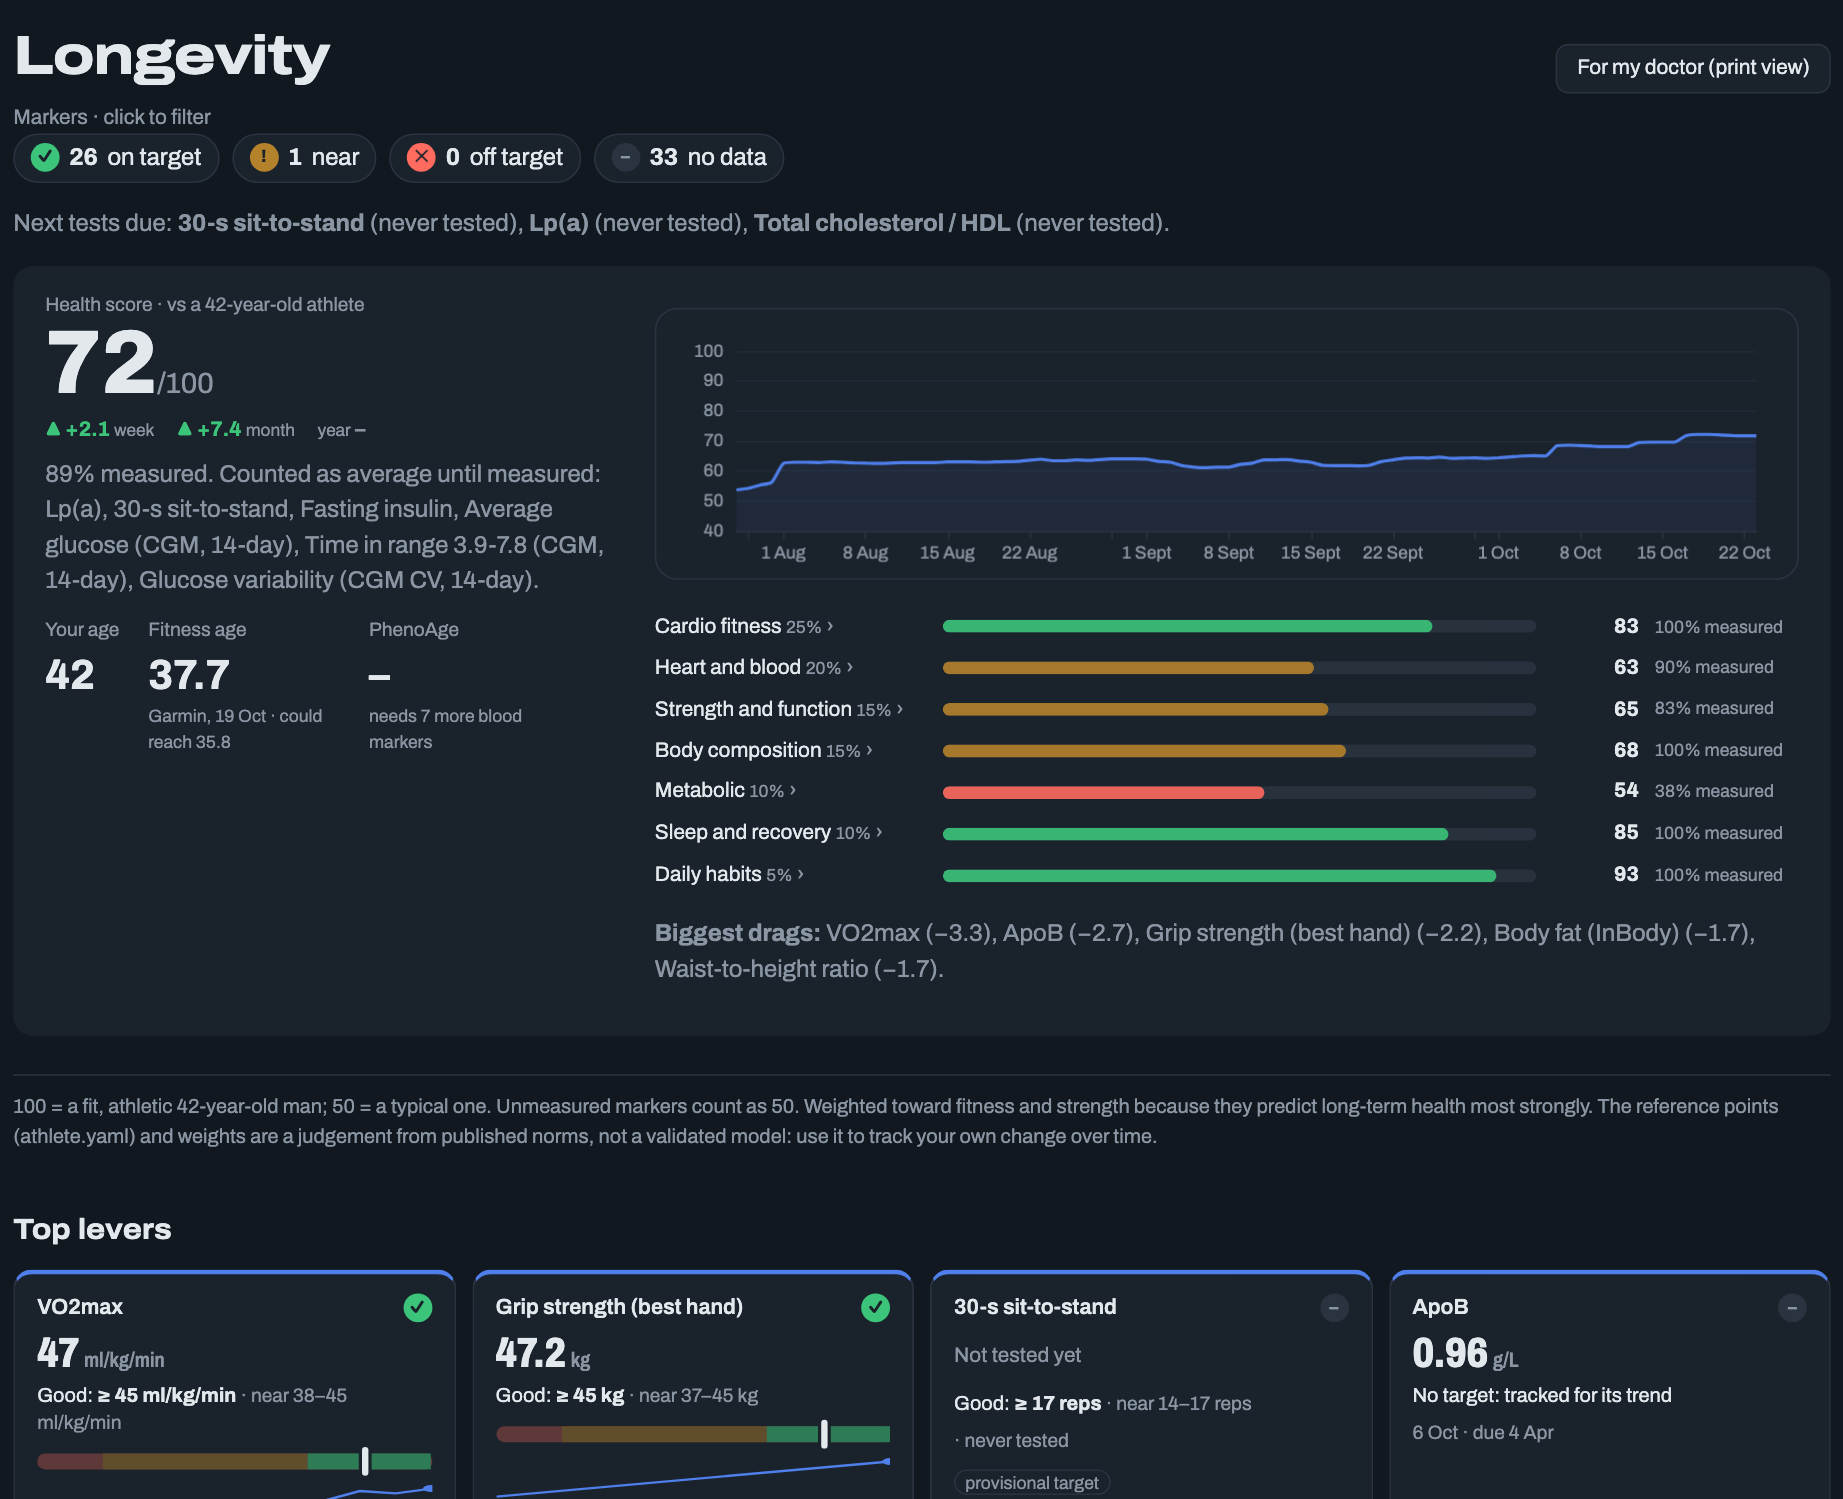
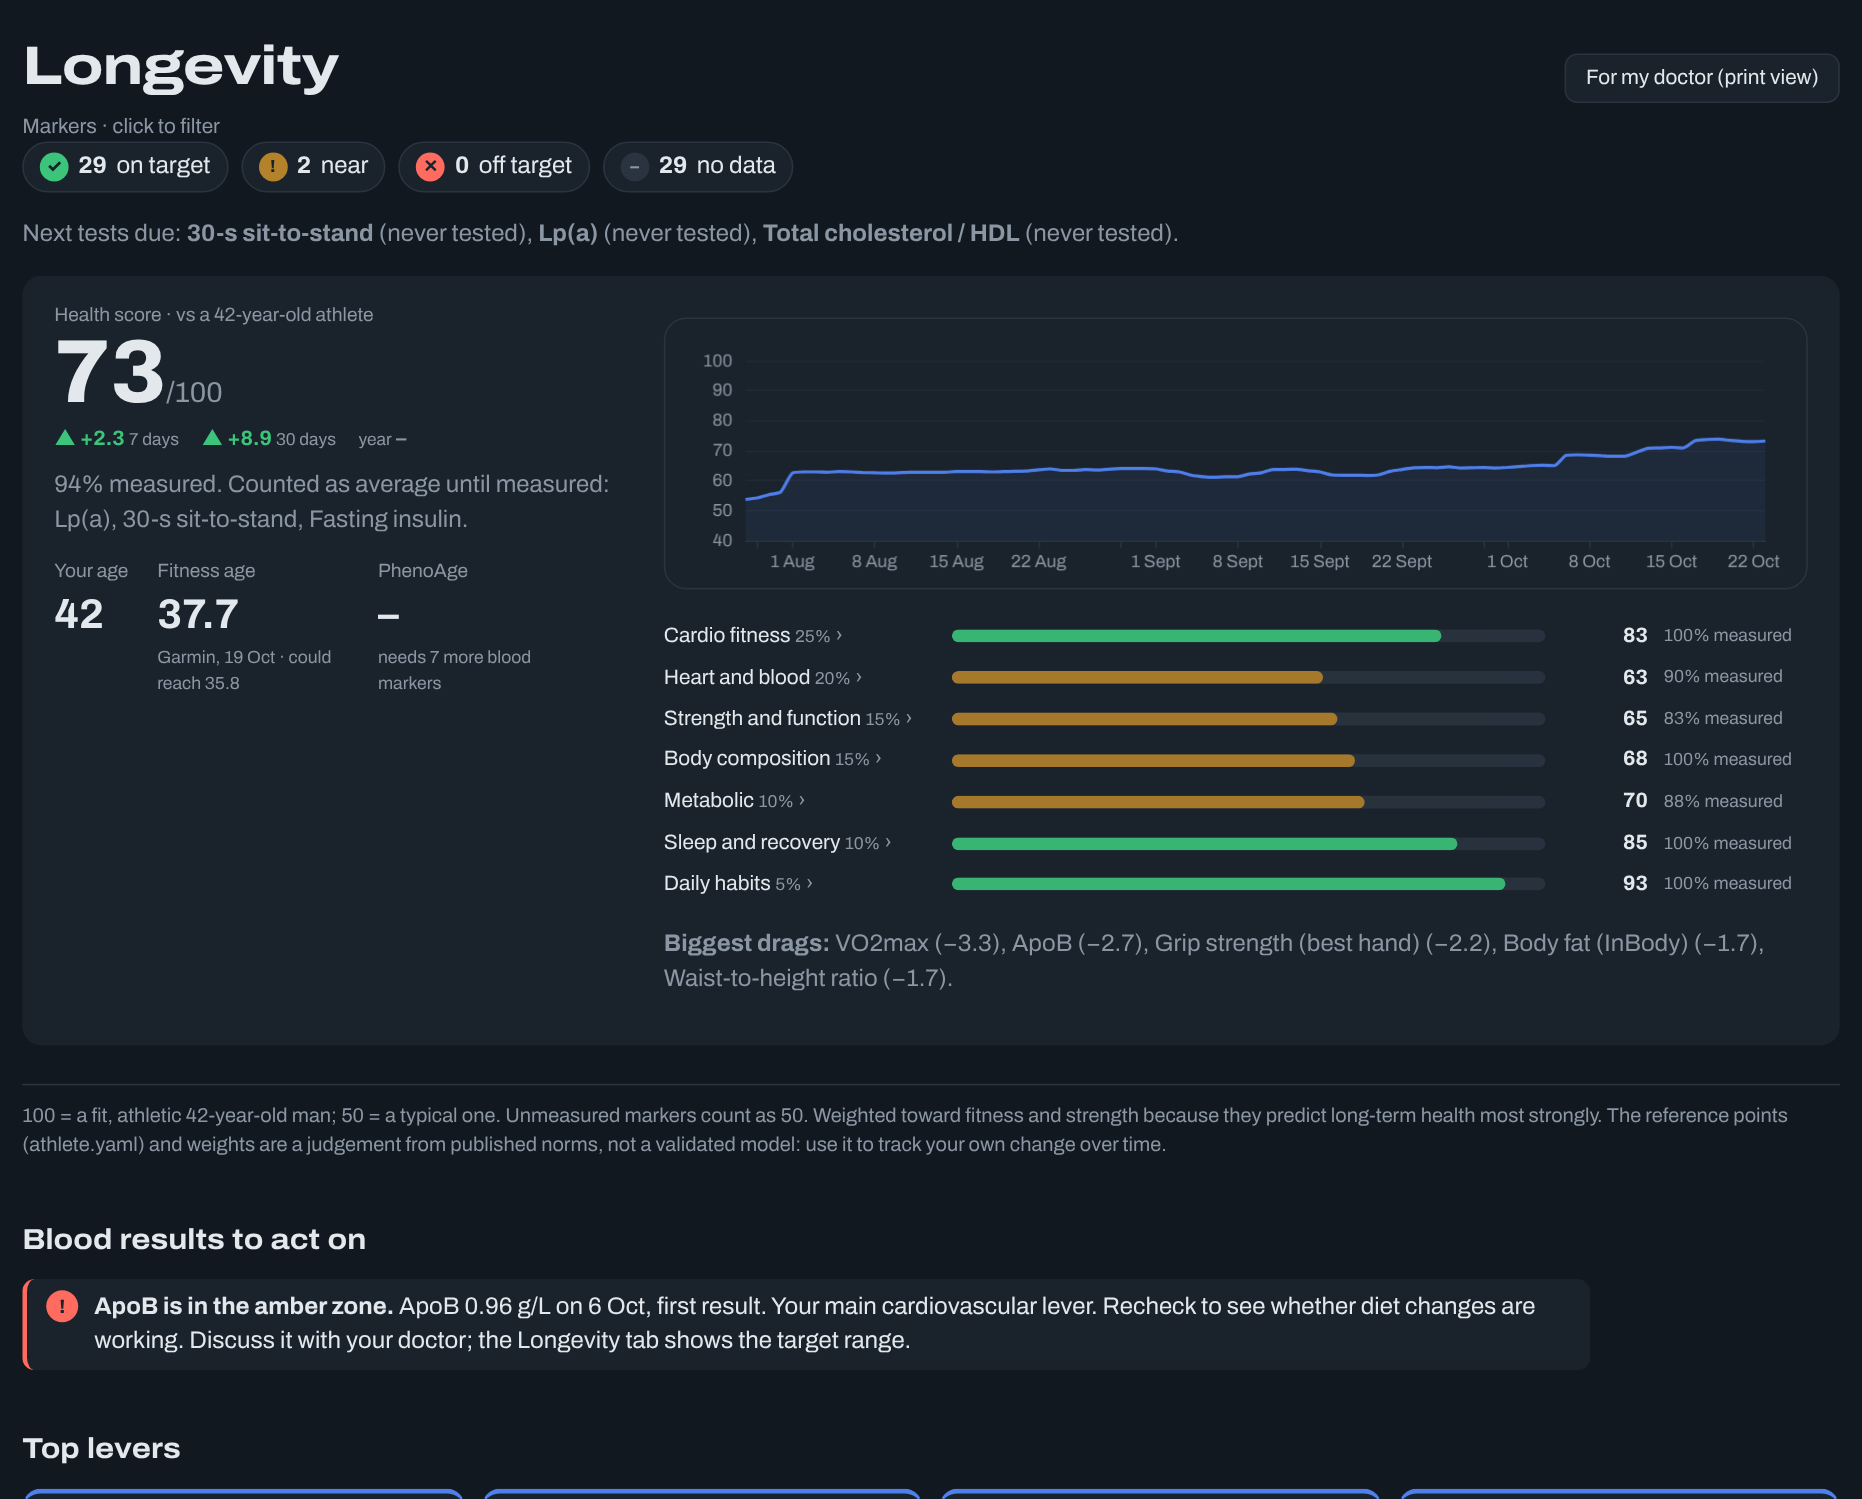
README for 0.4: activity calendar, pulse pressure, thresholds page, browser setup (#36)
Retakes the Longevity screenshot (health-score changes now "7 days" and
"30 days", ApoB banded) and adds one of the Training tab's activity
calendar, both from the demo at 1.6x with the clock pinned to 23 Oct
2026, 22:15 as before. New feature paragraphs for the activity calendar,
pulse pressure, the thresholds page and set-up and logins from the
browser; the "Also" line mentions them.

Claude-Session: https://claude.ai/code/session_01Grj56844zK9qWumkwGPAtc

diff --git a/README.md b/README.md
@@ -43,7 +43,8 @@ calories burnt, and the next seven days laid out: gym, run or rest.</td>
 </tr>
 </table>
 
-**Also:** a muscle map shaded by hard sets per muscle · blood test reports and InBody scans read from a photo
+**Also:** a muscle map shaded by hard sets per muscle · an activity calendar · pulse pressure · set-up and logins
+from the browser · every threshold and its source on one page · blood test reports and InBody scans read from a photo
 or PDF · scale and blood-pressure screenshots · a day timeline from sleep to dinner · Claude's comments saved
 next to the numbers they're about.
 
@@ -148,6 +149,14 @@ behind it, and spot the ones you never train.
 
 ![Muscle map: front and back diagrams shaded by hard sets over the last 7 days, with the lifts behind one muscle](docs/img/muscle-map.png)
 
+**An activity calendar.** A year of sessions on the Training tab, GitHub-style, each square shaded by calories
+burnt (grey when the watch didn't record them and the number is estimated), with the total in kilos of fat.
+
+![Activity: a year of sessions, each day shaded by calories burnt](docs/img/activity.png)
+
+**Blood pressure with pulse pressure.** Each reading on the 2017 ACC/AHA bands, with pulse pressure (top minus
+bottom) alongside and what it means on hover.
+
 **Recovery and readiness.** Sleep stages, HRV and resting heart rate against your own baseline, body battery and
 stress, combined into a readiness score that says what's holding you back.
 
@@ -160,6 +169,12 @@ more, each with target bands and a retest date, rolled into a health score that 
 
 **Fitness tests.** Grip strength, 30-second sit-to-stand, one-leg stand and waist, logged in a sentence ("grip
 47/45") and tracked on the Longevity tab with target bands and a reminder when each is due again.
+
+**Every threshold explained.** "How your numbers are judged", linked at the foot of every page, lists each target,
+band and score the dashboard uses and the guideline or study it comes from.
+
+**Set up from the browser.** On first run the dashboard asks where to keep your data, with your computer's own
+folder picker. **Connections** logs you in to Garmin (two-step code included) and LibreLinkUp: no console needed.
 
 ## Quick start (five minutes)
 
